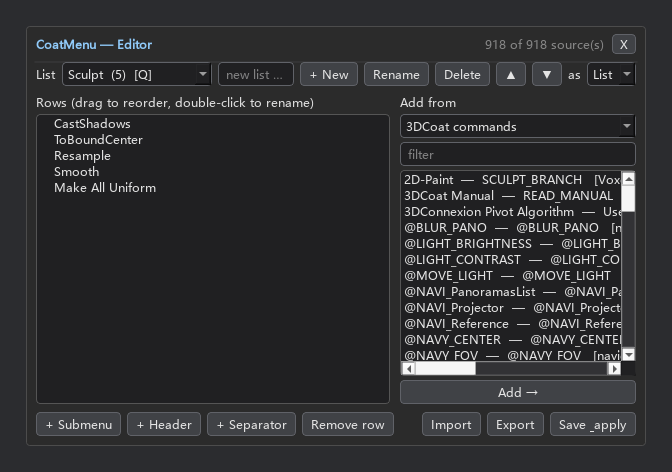
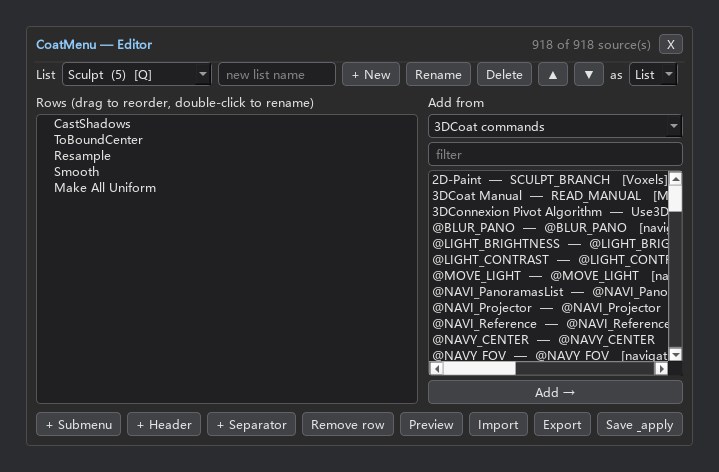
Editor: live preview of the current list
'Preview' shows the list exactly as it will open: a separate overlay instance
(not the singleton the hotkeys use, so a preview and a real menu never fight over
one window), rendered with the tree's *current* rows, so an un-saved edit can be
judged before saving.

Preview panels are transient=False - the per-frame poll only tracks the pointer,
so nothing in a preview can run, Esc and clicks away are ignored, and the editor
owns its lifetime (closing the editor closes it, saving refreshes it).

tests: 7 suites green, covering the transient flag, escape/click-away being
ignored inside a preview, and the editor closing its preview.

diff --git a/coat_side/coatmenu/ui/editor.py b/coat_side/coatmenu/ui/editor.py
@@ -132,6 +132,7 @@ class CoatMenuEditor(QWidget):
         self._sources_loaded = False
         self._drag_offset: QPoint | None = None
         self._dirty = False
+        self._preview = None
 
         self.setObjectName("coatmenuEditor")
         self.setWindowTitle("CoatMenu")
@@ -308,6 +309,7 @@ class CoatMenuEditor(QWidget):
             row.addWidget(button)
         row.addStretch(1)
         for label, slot in (
+            ("Preview", self.preview_list),
             ("Import", self.import_config),
             ("Export", self.export_config),
             ("Save & apply", self.save),
@@ -390,7 +392,46 @@ class CoatMenuEditor(QWidget):
     def close_editor(self) -> None:
         self._cursor_timer.stop()
         self._cursor_layer.set_position(None)
+        self.close_preview()
         self.hide()
+
+    # ------------------------------------------------------------------
+    # live preview
+    # ------------------------------------------------------------------
+
+    def preview_list(self) -> None:
+        """Show the current rows exactly as the menu will open them.
+
+        A separate overlay instance (not the singleton the hotkeys use), so a
+        preview and a real menu never fight over one window. It uses the tree's
+        *current* rows, so an un-saved edit can be looked at before committing.
+        """
+        target = self.current_list
+        if target is None:
+            return
+        from coatmenu.ui.popup import MenuPopup, title_item
+
+        rows = self.tree_to_items()
+        if not rows:
+            self.set_status("nothing to preview yet")
+            return
+        mode = "pie" if target.mode == "pie" else "list"
+        panel = self._preview
+        if panel is None:
+            panel = MenuPopup()
+            self._preview = panel
+        panel.set_mode(mode)
+        panel.set_transient(False)
+        panel.set_title(target.name)
+        panel.set_items(rows if mode == "pie" else [title_item(target.name)] + rows)
+        panel.show_at(QPoint(self.x() + self.width() + 18, self.y() + 70))
+        self.set_status(f"previewing '{target.name}' ({mode}) - it never runs anything")
+
+    def close_preview(self) -> None:
+        panel = self._preview
+        self._preview = None
+        if panel is not None:
+            panel.dismiss()
 
     def mousePressEvent(self, event) -> None:  # noqa: N802
         # drag the panel by its title strip
@@ -681,6 +722,9 @@ class CoatMenuEditor(QWidget):
             self._config = config
             self._dirty = False
             self.reload_lists()
+            if self._preview is not None:
+                # Keep the preview honest: the rows may have just changed.
+                self.preview_list()
             self.set_status(
                 f"Saved: {info['lists']} list(s), {info['registered']} menu item(s) registered"
             )

diff --git a/coat_side/coatmenu/ui/popup.py b/coat_side/coatmenu/ui/popup.py
@@ -103,6 +103,7 @@ class MenuPopup(QWidget):
         self._title: str = ""
         self._hover: int = -1
         self._trigger_vk: int = 0
+        self._transient: bool = True
         self._parent = parent_popup
         self._child: "MenuPopup | None" = None
         self._child_index: int = -1
@@ -182,6 +183,10 @@ class MenuPopup(QWidget):
         does not draw one either) - the title is kept for tooltips and callers.
         """
         self._title = text or ""
+
+    def set_transient(self, transient: bool) -> None:
+        """A preview panel never closes itself - the editor owns its lifetime."""
+        self._transient = bool(transient)
 
     def _rebuild_rows(self) -> None:
         rows: list[tuple[int, MenuItem, int]] = []
@@ -792,6 +797,11 @@ class MenuPopup(QWidget):
         try:
             if self.is_child:
                 return
+            if not self._transient:
+                # A preview shown by the editor: it stays until the editor closes
+                # it, and it never runs anything (no digit keys, no click-away).
+                self._sync_cursor()
+                return
             if not system.foreground_is_current_process():
                 # The user switched to another application - don't linger on top.
                 self.dismiss()
@@ -882,6 +892,11 @@ class PopupManager:
     def popup(self) -> MenuPopup | None:
         return self._popup
 
+    def set_transient(self, transient: bool) -> None:
+        """Forward to the overlay (a preview panel never closes itself)."""
+        if self._popup is not None:
+            self._popup.set_transient(transient)
+
     def is_visible(self) -> bool:
         try:
             return bool(self._popup and self._popup.isVisible())
@@ -895,10 +910,13 @@ class PopupManager:
         trigger_vk: int = 0,
         title: str = "",
         mode: str = LIST,
+        transient: bool = True,
     ) -> None:
         """Show (or refresh) the overlay at *anchor* (defaults to the cursor).
 
         *mode* picks the layout: ``LIST`` (vertical rows) or ``PIE`` (radial).
+        ``transient=False`` is for the editor's preview: such a panel stays put
+        until it is dismissed explicitly and never runs anything.
         """
         try:
             self._ensure_app()
@@ -907,6 +925,7 @@ class PopupManager:
 
             popup = self._popup
             popup.set_mode(mode)
+            popup.set_transient(transient)
 
             show_items = list(items)
             if title and mode != PIE:

diff --git a/tests/test_editor.py b/tests/test_editor.py
@@ -229,6 +229,30 @@ chrome.close_editor()
 check(not chrome._cursor_timer.isActive(), "pointer polling stops when the editor closes")
 check(layer._position is None, "the drawn pointer is cleared on close")
 
+print("== live preview ==")
+from coatmenu.ui import popup as popup_mod  # noqa: E402
+
+editor.select_list(0)
+editor.preview_list()
+check(editor._preview is not None and editor._preview.isVisible(), "preview panel opens")
+check(editor._preview._transient is False, "a preview never closes itself")
+check(editor._preview._items != [], "the preview has the current rows")
+
+popup_mod.is_key_down = lambda vk: vk == popup_mod.VK_LBUTTON
+editor._preview._on_poll()
+check(editor._preview.isVisible(), "a click outside does not close a preview")
+popup_mod.is_key_down = lambda vk: vk == popup_mod.VK_ESCAPE
+editor._preview._on_poll()
+check(editor._preview.isVisible(), "escape does not close a preview either")
+popup_mod.is_key_down = lambda _vk: False
+
+editor.preview_list()  # pressing it twice must not stack panels
+panel = editor._preview
+editor.close_editor()
+check(panel is not None and not panel.isVisible(), "closing the editor closes the preview")
+check(editor._preview is None, "and forgets it")
+editor.show_editor()
+
 print()
 if failures:
     print(f"EDITOR FAILED ({len(failures)}): " + "; ".join(failures))

diff --git a/tests/render_preview.py b/tests/render_preview.py
@@ -202,4 +202,17 @@ editor.move(QPoint(60, 60))
 editor._cursor_layer.set_position(QPoint(170, 132))
 app.processEvents()
 compose(os.path.join(OUT_DIR, "preview-editor.png"), [editor])
+
+# 8. the editor with its live preview beside it (un-saved rows included)
+editor.preview_list()
+app.processEvents()
+live = editor._preview
+print(f"editor preview open: {live is not None}")
+if live is not None:
+    # Offscreen screens are narrow, so the panel was clamped on top of the
+    # editor; put it back beside the window for the picture.
+    live.move(editor.x() + editor.width() + 18, editor.y() + 70)
+    app.processEvents()
+    compose(os.path.join(OUT_DIR, "preview-editor-live.png"), [editor, live])
+editor.close_preview()
 editor.close_editor()

diff --git a/README.md b/README.md
@@ -68,6 +68,9 @@ extension builds on this machine)*
   entries, tool presets, scripts), with readable names taken from `English.xml`;
   drag to reorder, double-click to rename, nest submenus, import/export, save &
   apply.
+* **Live preview** — the editor's `Preview` button opens the current list exactly
+  as it will appear (list or pie, un-saved edits included). That panel never runs
+  anything, so it is safe to poke at the layout while editing.
 * **Diagnostics built in** — the editor shows each list's hotkey next to its name
   and flags two lists fighting over one key, and `Scripts ▸ CoatMenu ▸
   CoatMenu_Doctor` writes a full report (paths, startup state, catalog sizes,
